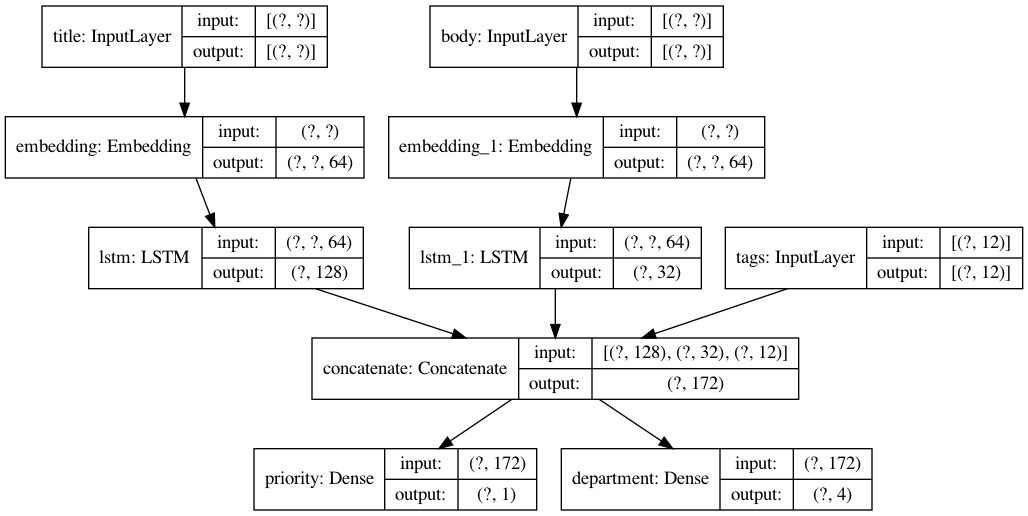
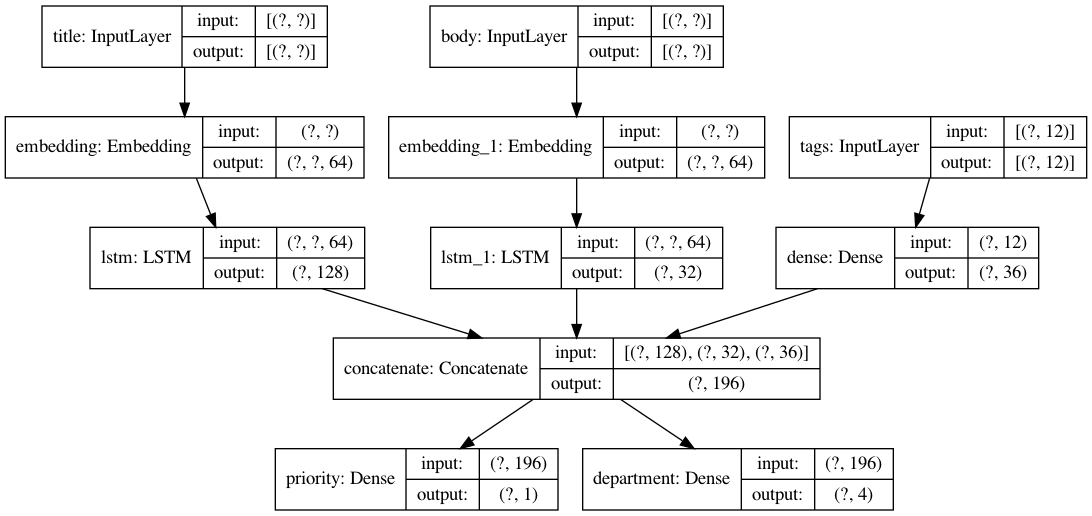
update multi input and output model

diff --git a/functional-api/multi_input_output_model.py b/functional-api/multi_input_output_model.py
@@ -6,34 +6,41 @@ num_tags = 12
 num_words = 10000
 num_departments = 4
 
+# ダミーデータの作成
 title_data = np.random.randint(num_words, size=(1280, 10))
 body_data = np.random.randint(num_words, size=(1280, 100))
 tags_data = np.random.randint(2, size=(1280, num_tags)).astype("float32")
 priority_targets = np.random.random(size=(1280, 1))
 dept_targets = np.random.randint(2, size=(1280, num_departments))
 
+# タイトルの層
 title_input = keras.Input(
     shape=(None,), name="title"
 )
+title_features = layers.Embedding(num_words, 64)(title_input)
+title_features = layers.LSTM(128)(title_features)
+
+# 本文の層
 body_input = keras.Input(shape=(None,), name="body")
+body_features = layers.Embedding(num_words, 64)(body_input)
+body_features = layers.LSTM(32)(body_features)
+
+# タグの層
 tags_input = keras.Input(
     shape=(num_tags,), name="tags"
 )
+tags_features = layers.Dense(36, activation='relu')(tags_input)
 
-title_features = layers.Embedding(num_words, 64)(title_input)
-body_features = layers.Embedding(num_words, 64)(body_input)
+# 層を結合
+x = layers.concatenate([title_features, body_features, tags_features])
 
-title_features = layers.LSTM(128)(title_features)
-body_features = layers.LSTM(32)(body_features)
-
-x = layers.concatenate([title_features, body_features, tags_input])
-
-priority_pred = layers.Dense(1, name="priority")(x)
-department_pred = layers.Dense(num_departments, name="department")(x)
+# 出力層
+priority_output = layers.Dense(1, name="priority")(x)
+department_output = layers.Dense(num_departments, name="department")(x)
 
 model = keras.Model(
     inputs=[title_input, body_input, tags_input],
-    outputs=[priority_pred, department_pred],
+    outputs=[priority_output, department_output],
 )
 
 keras.utils.plot_model(model, 'multi_inputoutput_model.png', show_shapes=True)
@@ -44,7 +51,7 @@ model.compile(
         "priority": keras.losses.BinaryCrossentropy(from_logits=True),
         "department": keras.losses.CategoricalCrossentropy(from_logits=True),
     },
-    loss_weights=[1.0, 0.2],
+    loss_weights=[1.0, 0.5],
 )
 
 model.fit(
